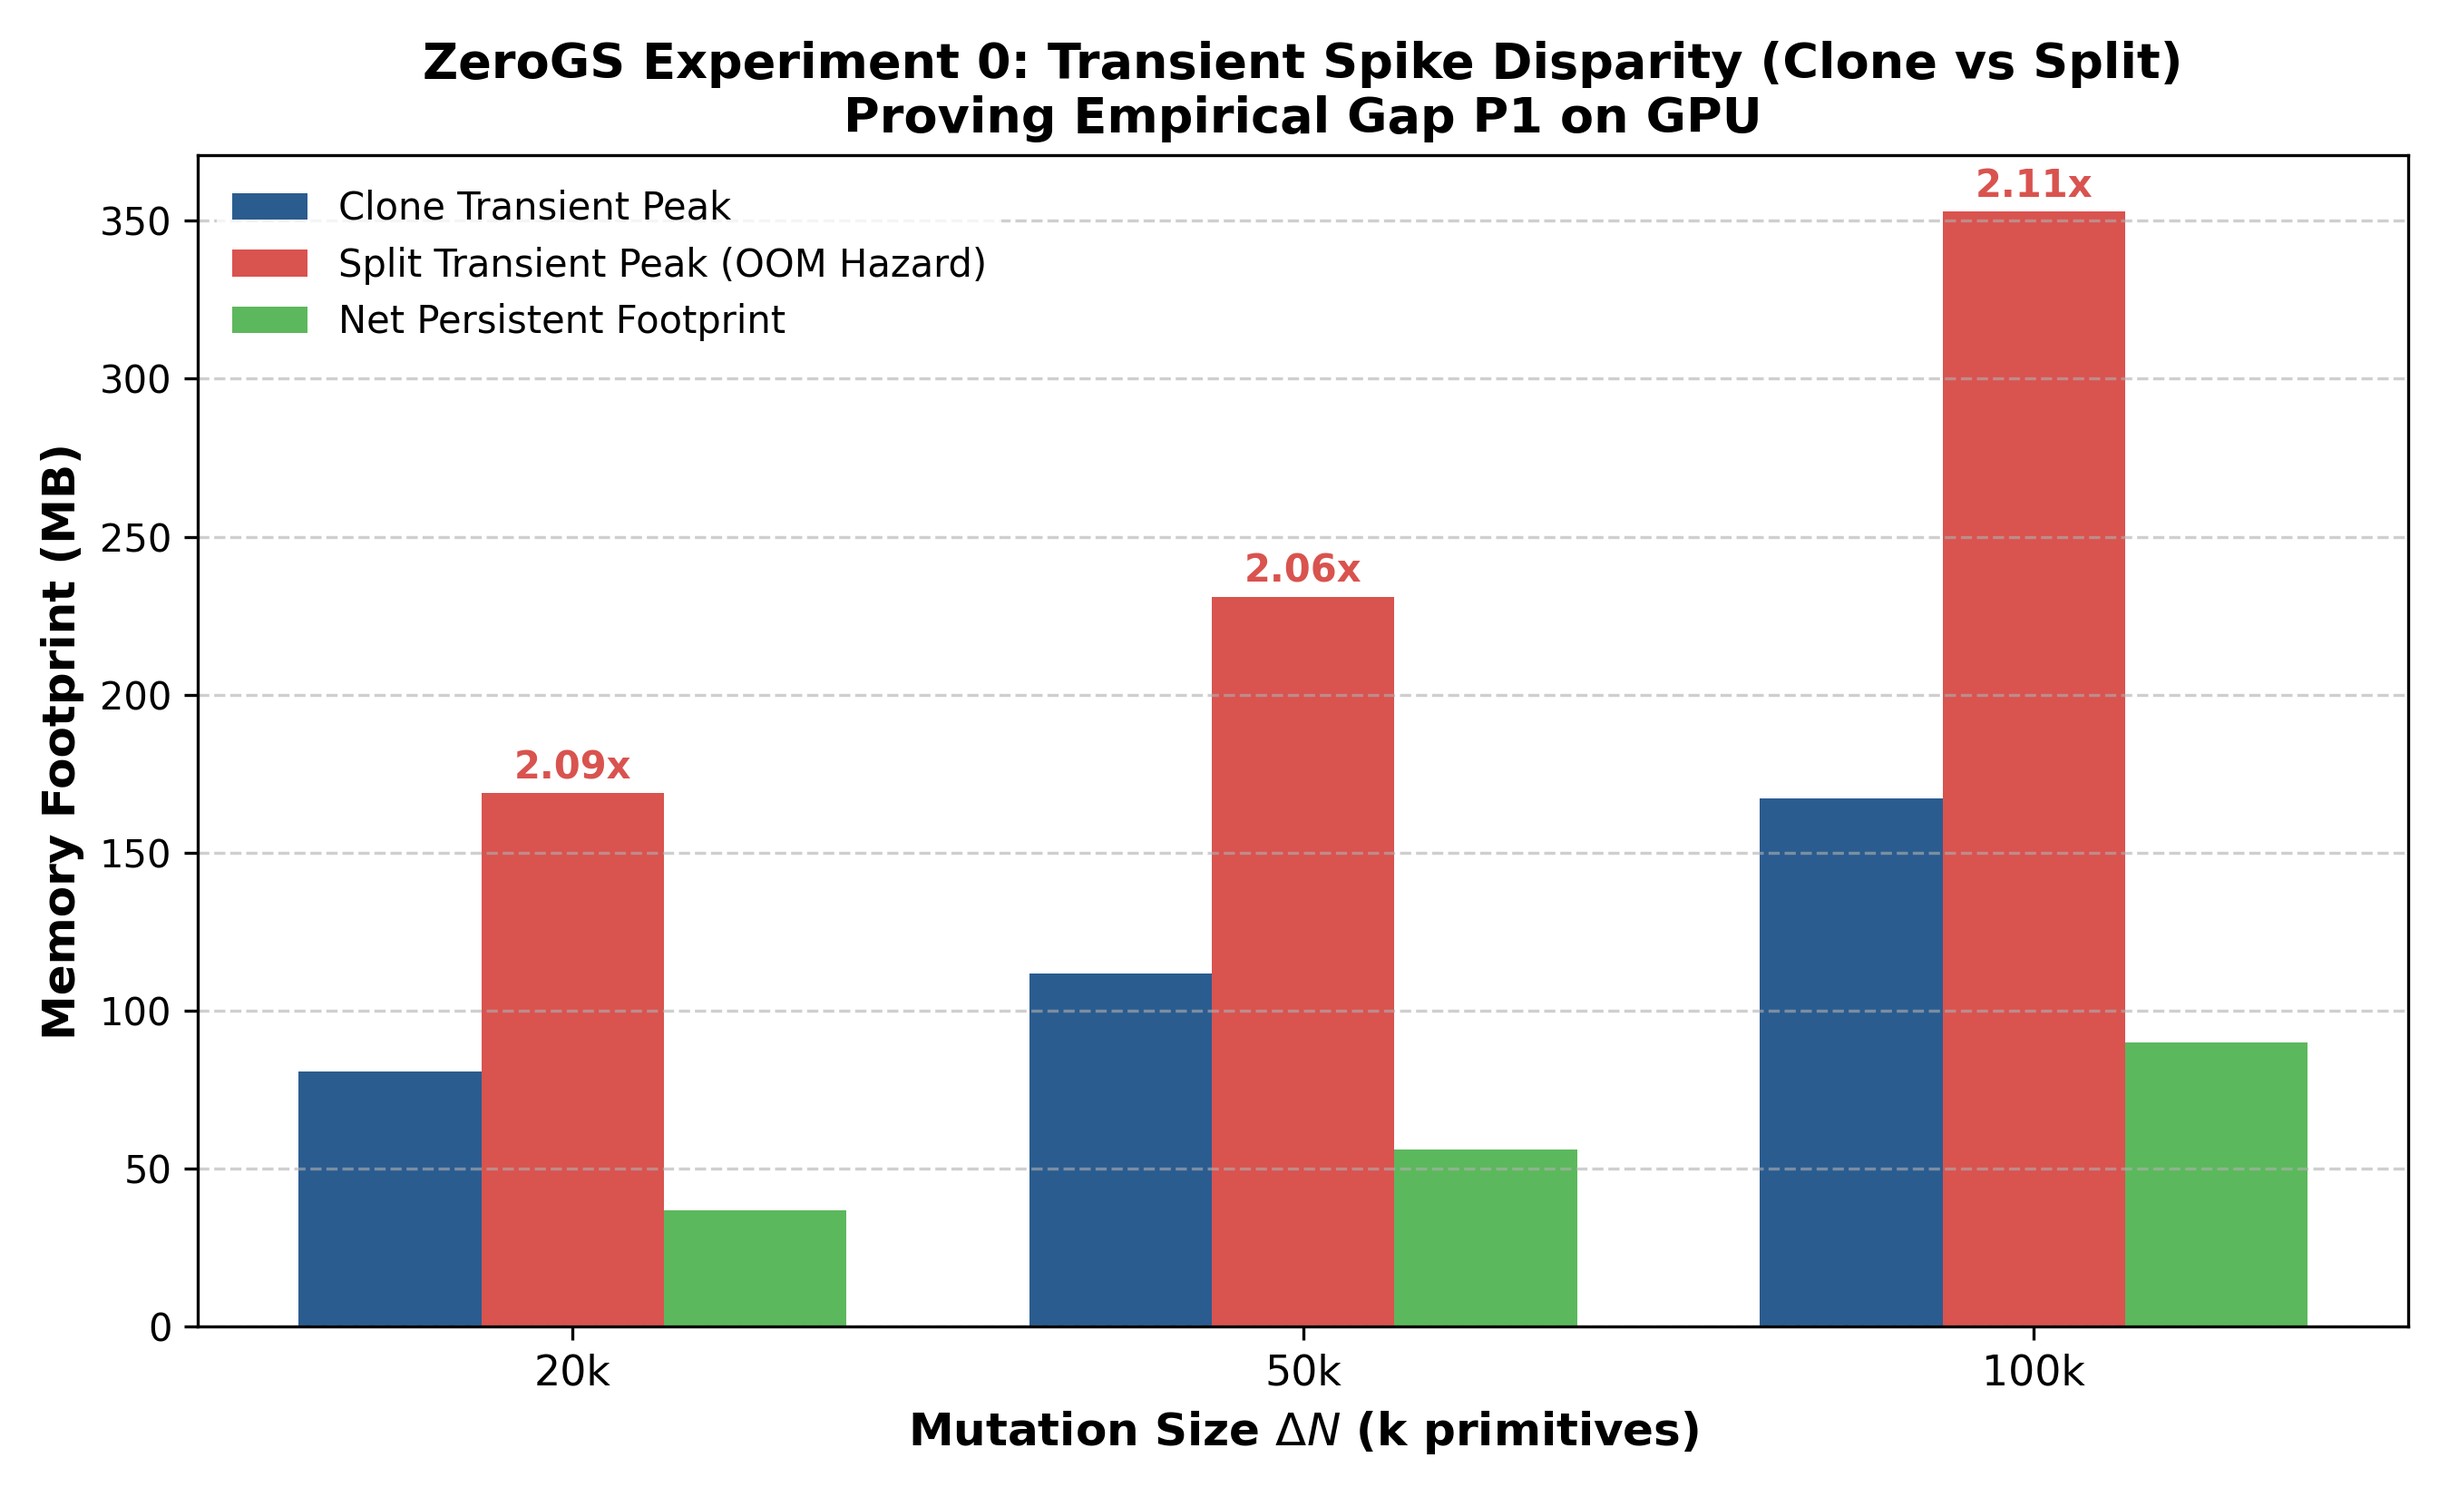
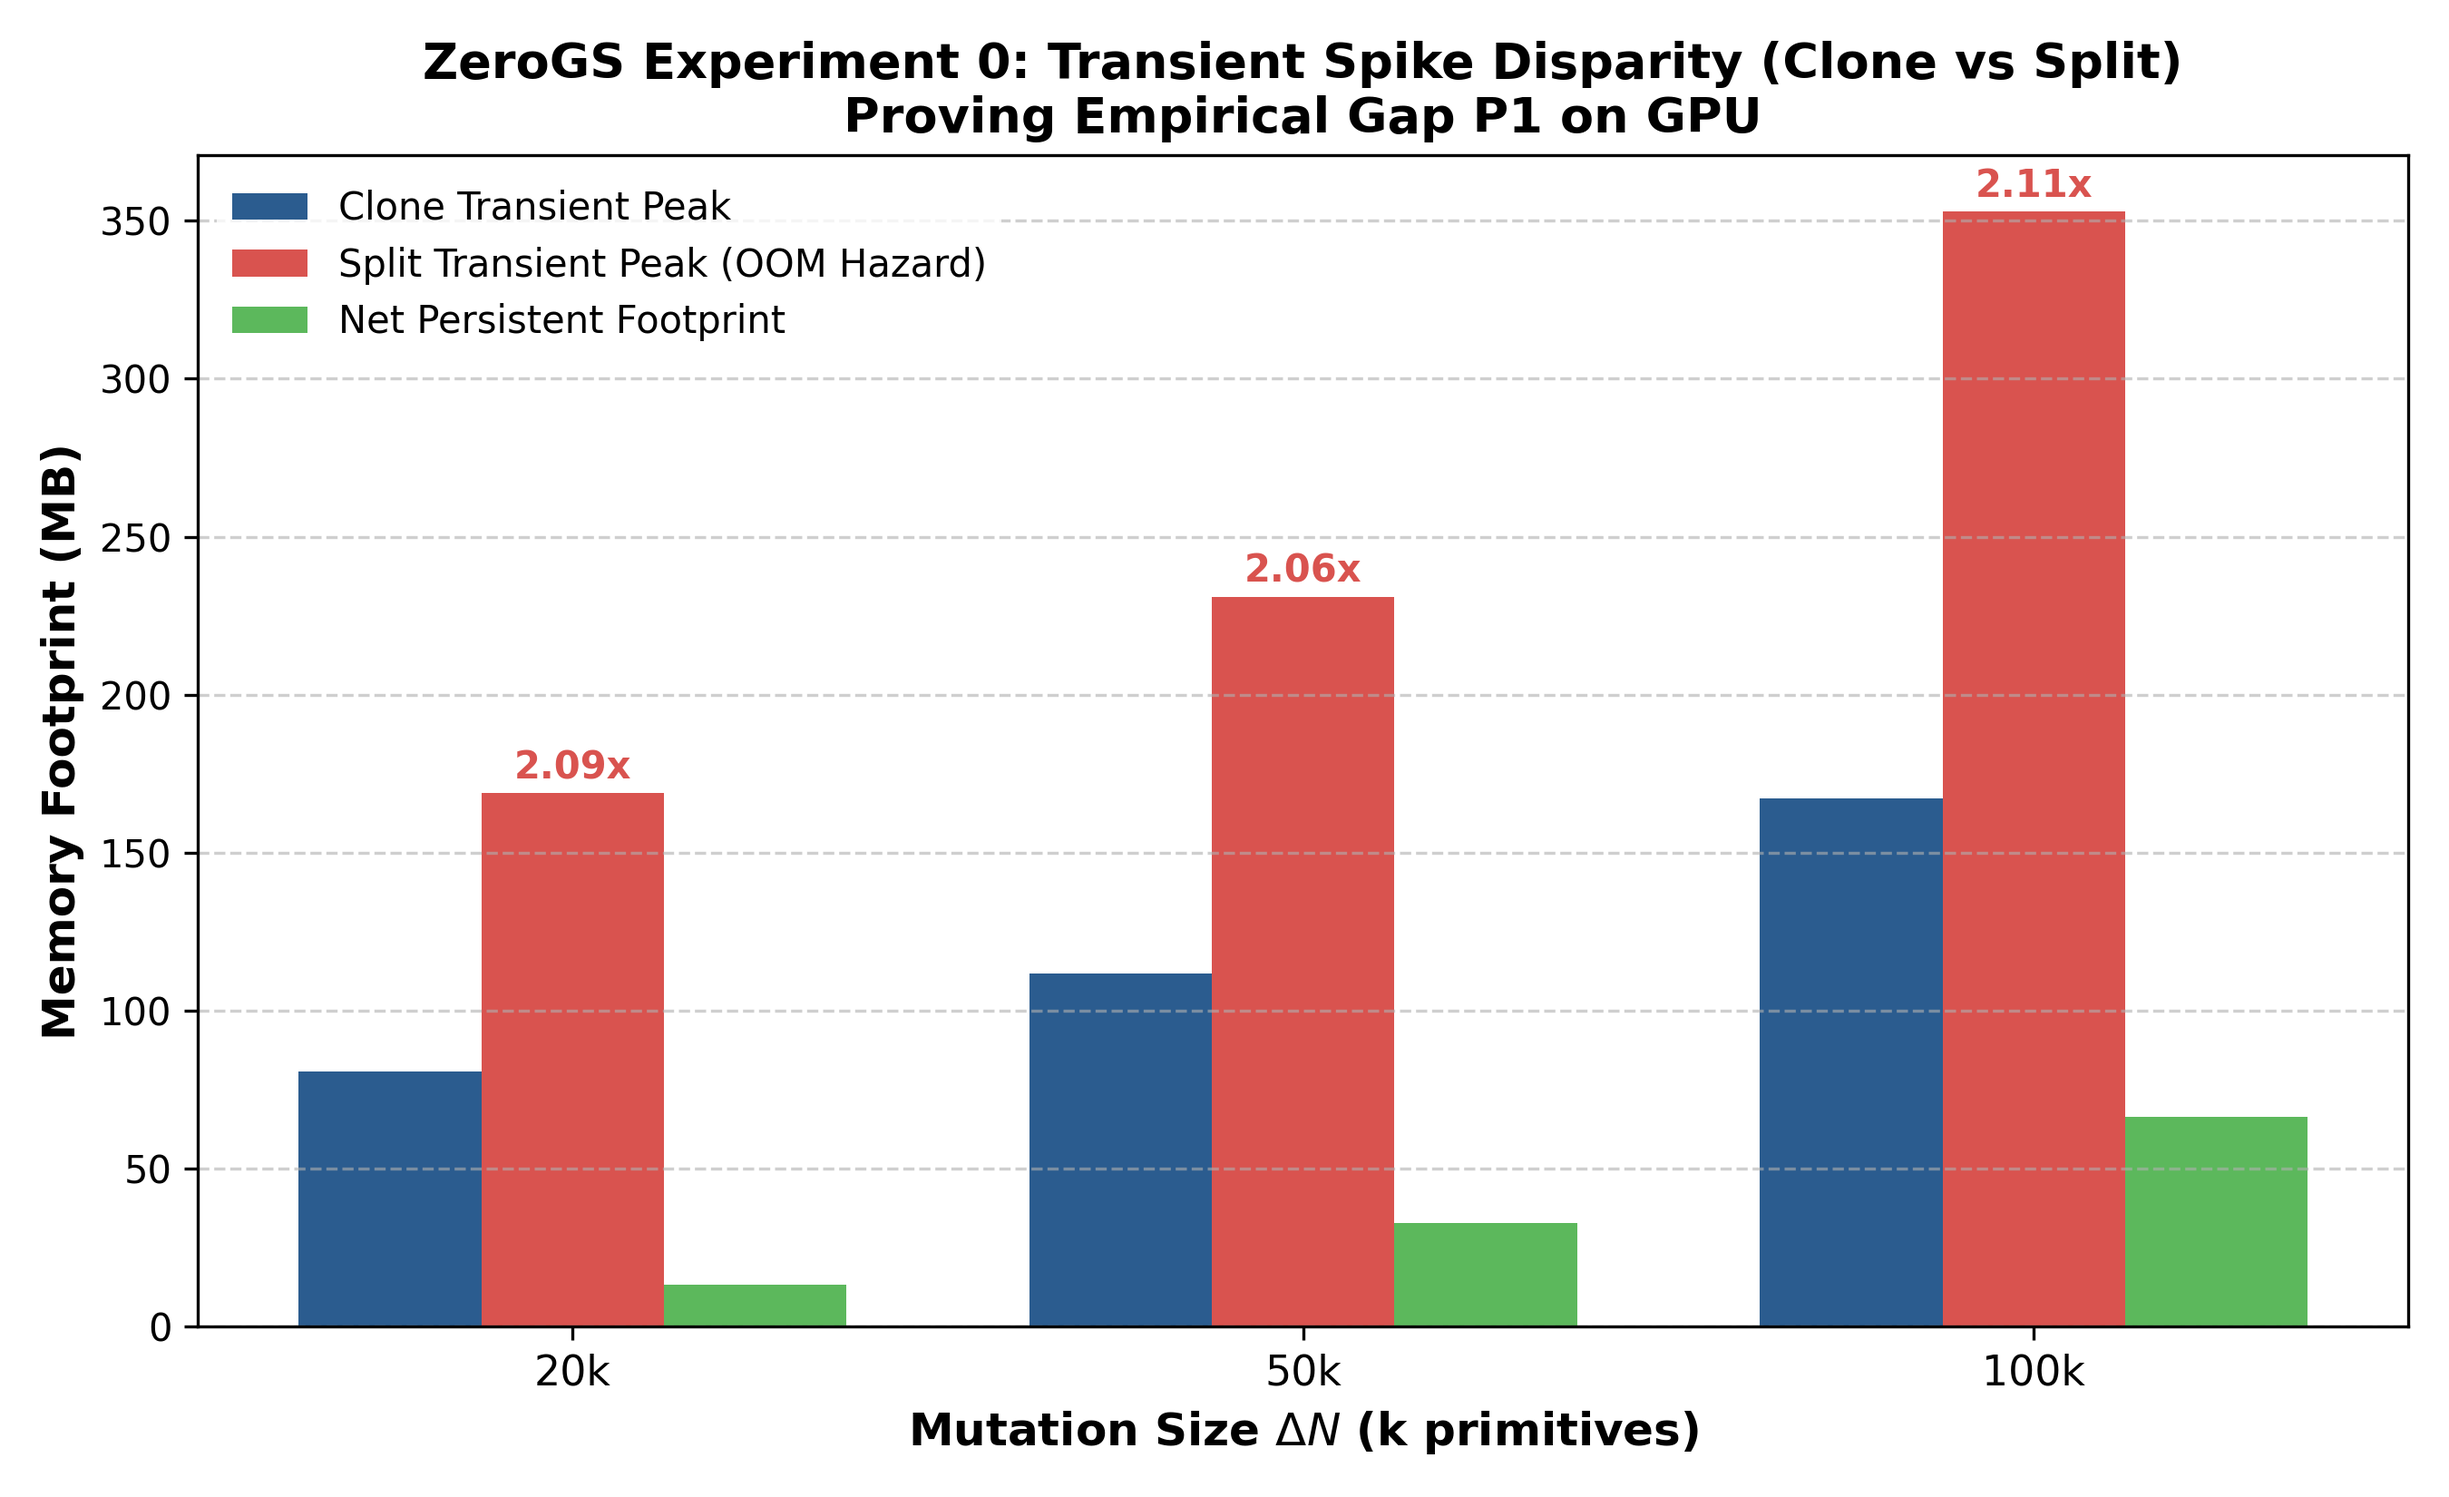
fix(densification): fix clone-before-split execution order, boolean mask padding, and rasterizer type stubs

Changed region(s): [[0.84, 0.68, 0.9644, 0.7727], [0.56, 0.7418, 0.6533, 0.8345], [0.2489, 0.8036, 0.3422, 0.8655]]

diff --git a/scene/gaussian_model.py b/scene/gaussian_model.py
@@ -415,12 +415,18 @@ class GaussianModel:
 
     def densify_and_split(self, grads, grad_threshold, scene_extent, N=2):
         n_init_points = self.get_xyz.shape[0]
-        # Extract points that satisfy the gradient condition
-        padded_grad = torch.zeros((n_init_points), device="cuda")
-        padded_grad[:grads.shape[0]] = grads.squeeze()
-        selected_pts_mask = torch.where(padded_grad >= grad_threshold, True, False)
-        selected_pts_mask = torch.logical_and(selected_pts_mask,
-                                              torch.max(self.get_scaling, dim=1).values > self.percent_dense*scene_extent)
+        if grads.dtype == torch.bool:
+            if grads.shape[0] < n_init_points:
+                selected_pts_mask = torch.cat((grads, torch.zeros(n_init_points - grads.shape[0], device="cuda", dtype=torch.bool)))
+            else:
+                selected_pts_mask = grads
+        else:
+            # Extract points that satisfy the gradient condition
+            padded_grad = torch.zeros((n_init_points), device="cuda")
+            padded_grad[:grads.shape[0]] = grads.squeeze()
+            selected_pts_mask = torch.where(padded_grad >= grad_threshold, True, False)
+            selected_pts_mask = torch.logical_and(selected_pts_mask,
+                                                  torch.max(self.get_scaling, dim=1).values > self.percent_dense*scene_extent)
 
         stds = self.get_scaling[selected_pts_mask].repeat(N,1)
         means =torch.zeros((stds.size(0), 3),device="cuda")
@@ -440,10 +446,16 @@ class GaussianModel:
         self.prune_points(prune_filter)
 
     def densify_and_clone(self, grads, grad_threshold, scene_extent):
-        # Extract points that satisfy the gradient condition
-        selected_pts_mask = torch.where(torch.norm(grads, dim=-1) >= grad_threshold, True, False)
-        selected_pts_mask = torch.logical_and(selected_pts_mask,
-                                              torch.max(self.get_scaling, dim=1).values <= self.percent_dense*scene_extent)
+        if grads.dtype == torch.bool:
+            if grads.shape[0] < self.get_xyz.shape[0]:
+                selected_pts_mask = torch.cat((grads, torch.zeros(self.get_xyz.shape[0] - grads.shape[0], device="cuda", dtype=torch.bool)))
+            else:
+                selected_pts_mask = grads
+        else:
+            # Extract points that satisfy the gradient condition
+            selected_pts_mask = torch.where(torch.norm(grads, dim=-1) >= grad_threshold, True, False)
+            selected_pts_mask = torch.logical_and(selected_pts_mask,
+                                                  torch.max(self.get_scaling, dim=1).values <= self.percent_dense*scene_extent)
         
         new_xyz = self._xyz[selected_pts_mask]
         new_features_dc = self._features_dc[selected_pts_mask]

diff --git a/zerogs/mock_gaussian_model.py b/zerogs/mock_gaussian_model.py
@@ -147,7 +147,11 @@ class MockGaussianModel:
         In vanilla 3DGS, this concatenates newly cloned points onto existing tensors.
         """
         if isinstance(grads, torch.Tensor) and grads.dtype == torch.bool:
-            selected_pts_mask = grads
+            if grads.shape[0] < self._xyz.shape[0]:
+                pad = torch.zeros(self._xyz.shape[0] - grads.shape[0], dtype=torch.bool, device=self.device)
+                selected_pts_mask = torch.cat([grads, pad])
+            else:
+                selected_pts_mask = grads
         else:
             selected_pts_mask = grads >= grad_threshold
 
@@ -217,7 +221,11 @@ class MockGaussianModel:
         Crucially replicates the transient peak spike of 3DGS!
         """
         if isinstance(grads, torch.Tensor) and grads.dtype == torch.bool:
-            selected_pts_mask = grads
+            if grads.shape[0] < self._xyz.shape[0]:
+                pad = torch.zeros(self._xyz.shape[0] - grads.shape[0], dtype=torch.bool, device=self.device)
+                selected_pts_mask = torch.cat([grads, pad])
+            else:
+                selected_pts_mask = grads
         else:
             selected_pts_mask = grads >= grad_threshold
 

diff --git a/zerogs/scheduler.py b/zerogs/scheduler.py
@@ -205,14 +205,14 @@ class MemoryBoundedDensificationScheduler:
             n_split_quota=decision.n_split,
         )
 
-        # 7. Safe Execution of Densification
-        n_split_executed = int(final_split_mask.sum().item())
+        # 7. Safe Execution of Densification (Clone first, then Split)
         n_clone_executed = int(final_clone_mask.sum().item())
+        n_split_executed = int(final_split_mask.sum().item())
 
-        if n_split_executed > 0:
-            gaussians.densify_and_split(final_split_mask, densify_grad_threshold, scene_extent)
         if n_clone_executed > 0:
             gaussians.densify_and_clone(final_clone_mask, densify_grad_threshold, scene_extent)
+        if n_split_executed > 0:
+            gaussians.densify_and_split(final_split_mask, densify_grad_threshold, scene_extent)
 
         # 8. Reset Buffers for New Population
         new_num_gaussians = gaussians.get_xyz.shape[0]

diff --git a/train.py b/train.py
@@ -311,11 +311,11 @@ def training(
                         n_split_quota=decision["n_split"],
                     )
 
-                    # g. Safely Execute Densification
-                    if final_split_mask.sum() > 0:
-                        gaussians.densify_and_split(final_split_mask, opt.densify_grad_threshold, scene_extent)
+                    # g. Safely Execute Densification (Clone first, then Split)
                     if final_clone_mask.sum() > 0:
                         gaussians.densify_and_clone(final_clone_mask, opt.densify_grad_threshold, scene_extent)
+                    if final_split_mask.sum() > 0:
+                        gaussians.densify_and_split(final_split_mask, opt.densify_grad_threshold, scene_extent)
 
                     # h. Reset Accumulators for New Population
                     new_pts = gaussians.get_xyz.shape[0]

diff --git a/diff_gaussian_rasterization/__init__.py b/diff_gaussian_rasterization/__init__.py
@@ -12,7 +12,7 @@
 from typing import NamedTuple
 import torch.nn as nn
 import torch
-from . import _C
+from . import _C  # type: ignore
 
 def cpu_deep_copy_tuple(input_tuple):
     copied_tensors = [item.cpu().clone() if isinstance(item, torch.Tensor) else item for item in input_tuple]
@@ -97,7 +97,7 @@ class _RasterizeGaussians(torch.autograd.Function):
         return color, radii, invdepths, mean_T, depth_var, vis_count
 
     @staticmethod
-    def backward(ctx, grad_out_color, grad_radii, grad_out_depth, grad_mean_T=None, grad_depth_var=None, grad_vis_count=None):
+    def backward(ctx, grad_out_color, grad_radii, grad_out_depth, grad_mean_T=None, grad_depth_var=None, grad_vis_count=None):  # type: ignore[override]
 
         # Restore necessary values from context
         num_rendered = ctx.num_rendered

diff --git a/submodules/diff-gaussian-rasterization/diff_gaussian_rasterization/__init__.py b/submodules/diff-gaussian-rasterization/diff_gaussian_rasterization/__init__.py
@@ -12,7 +12,7 @@
 from typing import NamedTuple
 import torch.nn as nn
 import torch
-from . import _C
+from . import _C  # type: ignore
 
 def cpu_deep_copy_tuple(input_tuple):
     copied_tensors = [item.cpu().clone() if isinstance(item, torch.Tensor) else item for item in input_tuple]
@@ -97,7 +97,7 @@ class _RasterizeGaussians(torch.autograd.Function):
         return color, radii, invdepths, mean_T, depth_var, vis_count
 
     @staticmethod
-    def backward(ctx, grad_out_color, grad_radii, grad_out_depth, grad_mean_T=None, grad_depth_var=None, grad_vis_count=None):
+    def backward(ctx, grad_out_color, grad_radii, grad_out_depth, grad_mean_T=None, grad_depth_var=None, grad_vis_count=None):  # type: ignore[override]
 
         # Restore necessary values from context
         num_rendered = ctx.num_rendered
